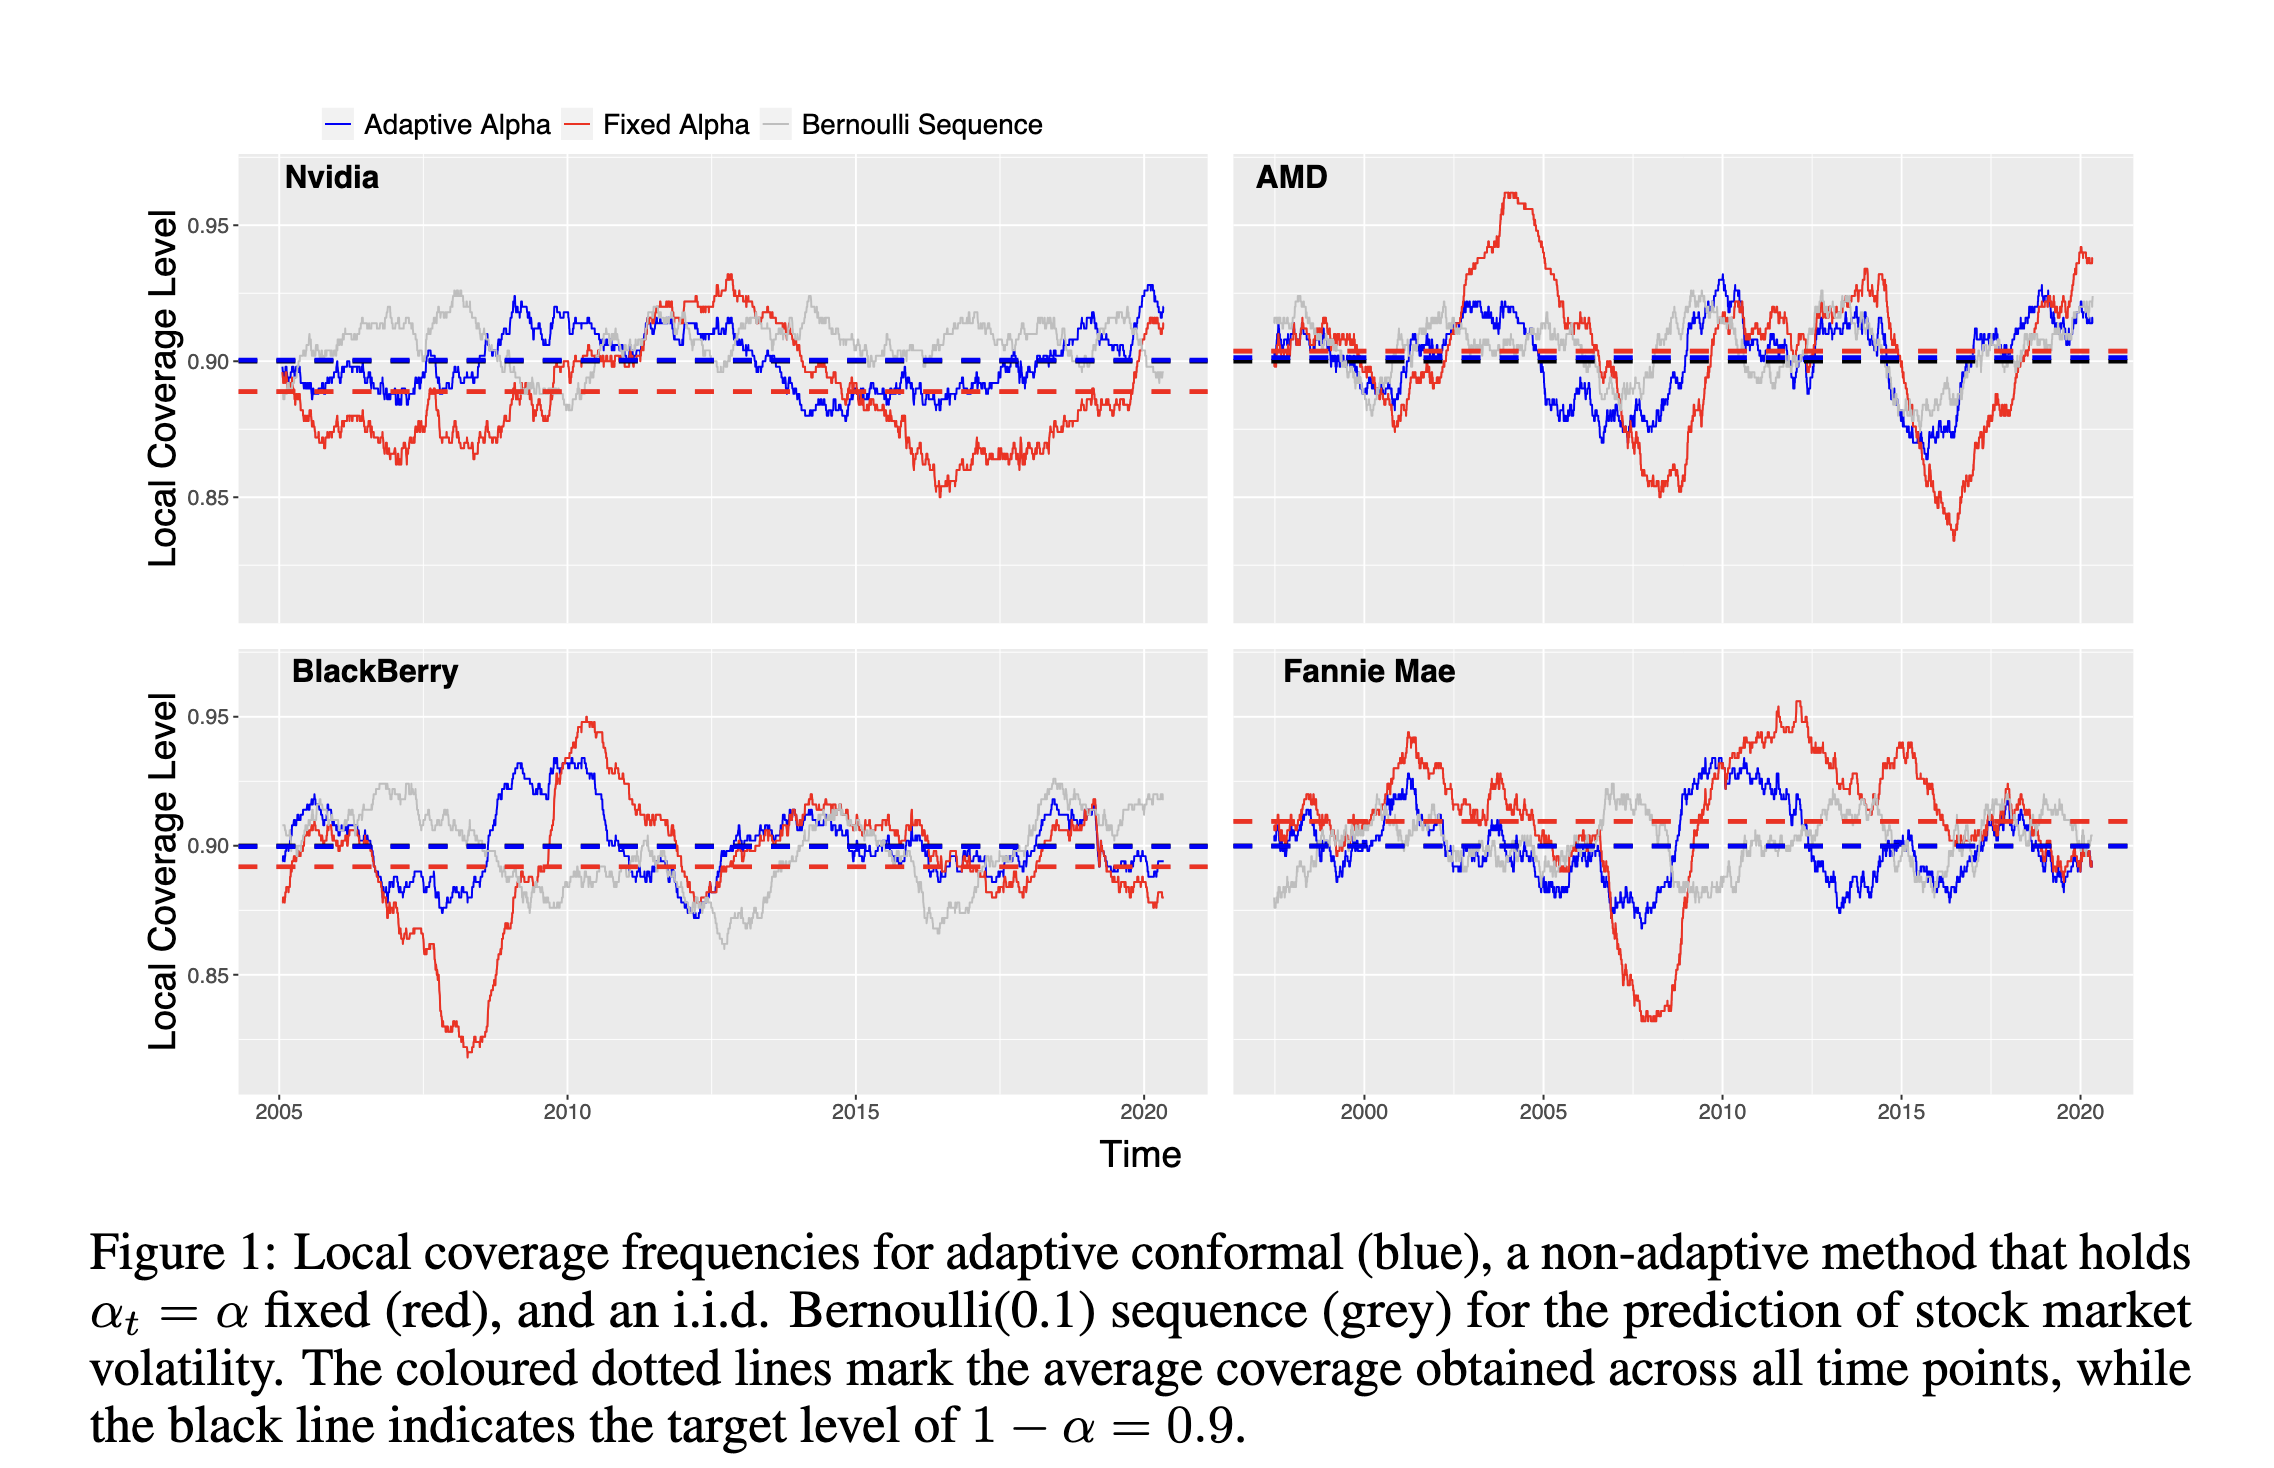
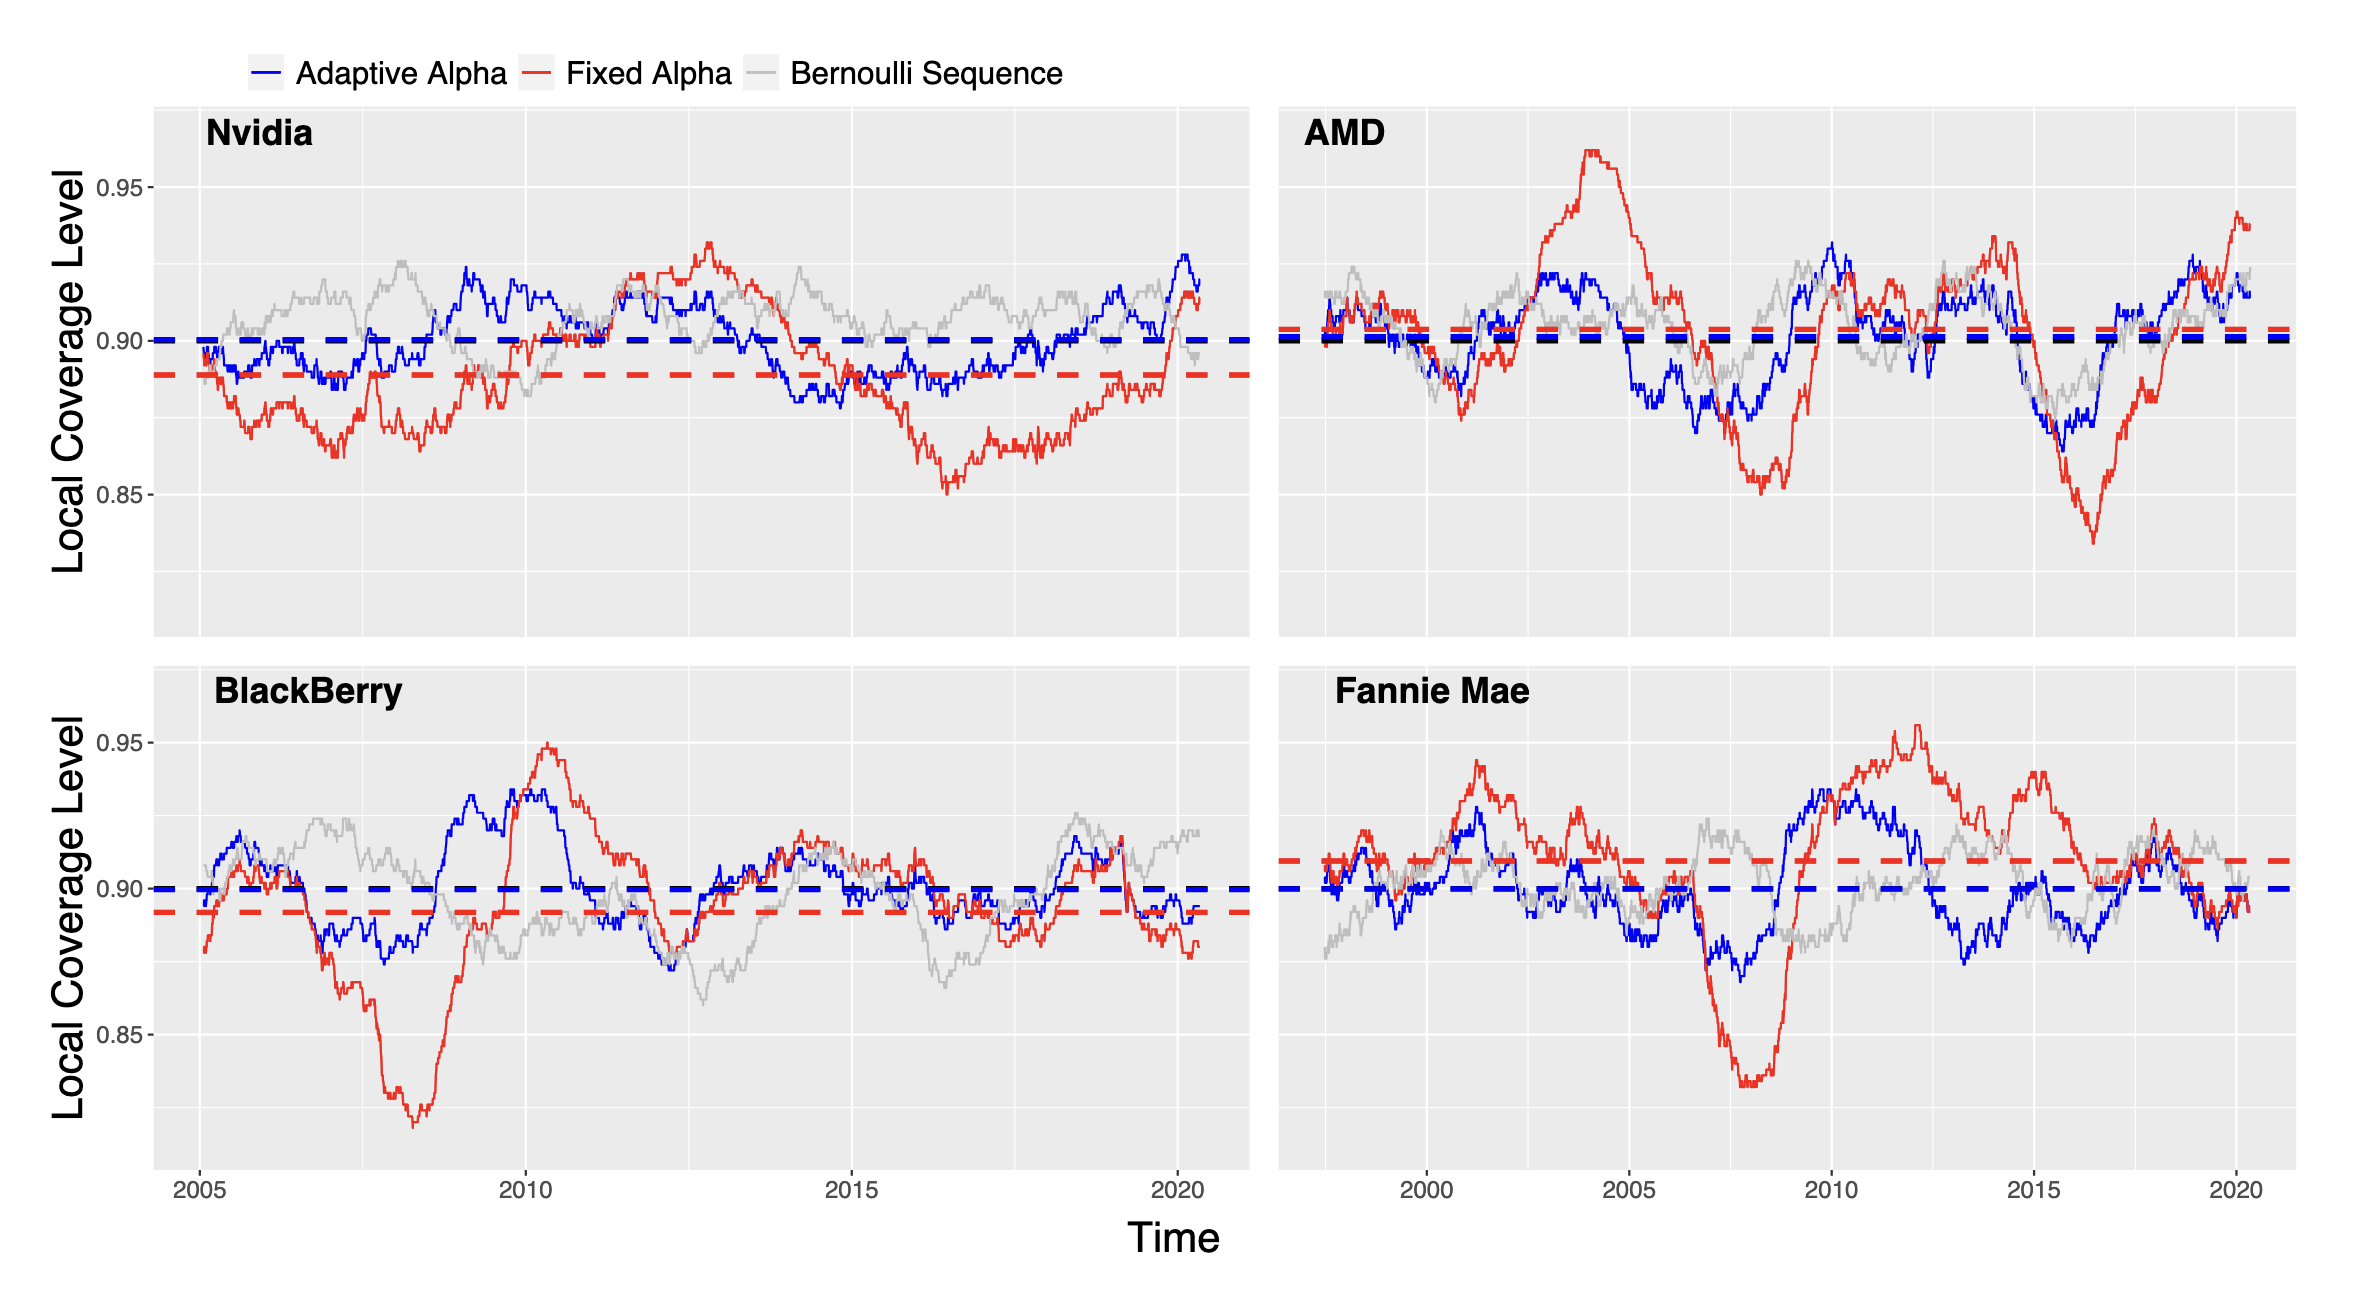
feat: added reproduced figures 1-2

diff --git a/examples/figure2/volatility.py b/examples/figure2/volatility.py
@@ -1,0 +1,84 @@
+"""
+GARCH-based adaptive conformal inference for volatility prediction.
+
+Example pipeline used to reproduce Figures 1 and 2 from Gibbs & Candès (2021).
+This module is intentionally outside core `aci` to keep the library model-agnostic.
+"""
+
+import warnings
+
+import numpy as np
+from arch import arch_model
+
+from aci import ACITracker
+
+
+def garch_conformal_forecasting(
+    returns: np.ndarray,
+    alpha: float,
+    gamma: float,
+    lookback: int = 1250,
+    garch_p: int = 1,
+    garch_q: int = 1,
+    start_up: int = 100,
+    verbose: bool = False,
+    update_method: str = "simple",
+    momentum_bw: float = 0.95,
+    score: str = "normalized",
+) -> tuple[np.ndarray, np.ndarray, np.ndarray]:
+    """Run ACI with GARCH(p,q) volatility model."""
+    if score not in ("normalized", "unnormalized"):
+        raise ValueError(f"score must be 'normalized' or 'unnormalized', got '{score}'")
+
+    T = len(returns)
+    start_up = max(start_up, lookback)
+    n_steps = T - start_up + 1
+
+    tracker = ACITracker(alpha, gamma, method=update_method, momentum_bw=momentum_bw)
+    scores = np.zeros(n_steps)
+    err_seq_aci = np.zeros(n_steps)
+    err_seq_fixed = np.zeros(n_steps)
+
+    for t in range(start_up, T + 1):
+        if verbose:
+            print(t)
+
+        idx = t - start_up
+        window = returns[t - lookback: t - 1]
+
+        am = arch_model(
+            window, mean="Zero", vol="GARCH", p=garch_p, q=garch_q,
+            dist="normal", rescale=False
+        )
+        with warnings.catch_warnings():
+            warnings.filterwarnings("ignore", category=Warning)
+            res = am.fit(disp="off")
+
+        forecast = res.forecast(horizon=1)
+        sigma2_hat = forecast.variance.values[-1, 0]
+        v_t = returns[t - 1] ** 2
+
+        if score == "normalized":
+            scores[idx] = abs(v_t - sigma2_hat) / sigma2_hat
+        else:
+            scores[idx] = abs(v_t - sigma2_hat)
+
+        if idx > 0:
+            recent_start = max(idx - lookback + 1, 0)
+            recent_scores = scores[recent_start: idx]
+            alphat = tracker.alpha_t
+            if alphat >= 1:
+                err_seq_aci[idx] = 1.0
+            elif alphat <= 0:
+                err_seq_aci[idx] = 0.0
+            else:
+                err_seq_aci[idx] = float(scores[idx] > np.quantile(recent_scores, 1 - alphat))
+            err_seq_fixed[idx] = float(scores[idx] > np.quantile(recent_scores, 1 - alpha))
+
+        tracker.update(err_seq_aci[idx])
+
+        if t % 100 == 0:
+            print(f"Done {t} steps")
+
+    alpha_sequence = tracker.alpha_history
+    return alpha_sequence, err_seq_aci, err_seq_fixed

diff --git a/examples/figure2/utils.py b/examples/figure2/utils.py
@@ -1,0 +1,28 @@
+"""Utility functions for ACI examples."""
+
+import numpy as np
+
+
+def local_coverage(err_seq: np.ndarray, window: int = 500) -> np.ndarray:
+    """Compute local coverage frequency using a centered rolling window."""
+    kernel = np.ones(window) / window
+    rolling_err = np.convolve(err_seq, kernel, mode="valid")
+    return 1.0 - rolling_err
+
+
+def fetch_stock_data(ticker: str, start: str, end: str) -> dict:
+    """Download stock data and compute returns and realized volatility."""
+    import yfinance as yf
+
+    data = yf.download(ticker, start=start, end=end, auto_adjust=True, progress=False)
+    prices = data["Open"].values.flatten()
+    dates = data.index
+    returns = np.diff(prices) / prices[:-1]
+    volatility = returns ** 2
+
+    return {
+        "prices": prices,
+        "returns": returns,
+        "volatility": volatility,
+        "dates": dates[1:],
+    }

diff --git a/README.md b/README.md
@@ -41,19 +41,39 @@ for t in range(T):
 | `aci.tracker.ACITracker` | Core alpha update (Simple and Momentum rules) |
 
 Non-essential forecasting/data pipelines are intentionally kept in `examples/`:
-- `examples/volatility.py` (GARCH volatility example)
+- `examples/figure1/` (self-contained Figure 1 example files)
+- `examples/figure2/` (self-contained Figure 2 example files)
 - `examples/quantile_reg.py` (CQR regression example)
-- `examples/utils.py` (example-only data and plotting utilities)
 
 ## Reproducing Paper Figures
 
 ```bash
 # Figure 1: Volatility prediction with normalized score (4 stocks)
-python examples/reproduce_figure1.py
+python examples/figure1/reproduce.py
 
 # Figure 2: Volatility prediction with unnormalized score (4 stocks)
-python examples/reproduce_figure2.py
+python examples/figure2/reproduce.py
 ```
+
+## Figure Comparisons
+
+### Figure 1 (Normalized Score)
+
+| Our reproduction | Paper figure |
+|---|---|
+| <img src="figures/figure1.png" alt="Our Figure 1" width="520"> | <img src="figures/figure_1_original.png" alt="Paper Figure 1" width="640"> |
+
+- Our Figure 1 follows the same overall panel behavior but is more sensitive to data/modeling differences.
+- Largest visible gaps are in local oscillations and average-coverage line levels for some tickers.
+
+### Figure 2 (Unnormalized Score)
+
+| Our reproduction | Paper figure |
+|---|---|
+| <img src="figures/figure2.png" alt="Our Figure 2" width="520"> | <img src="figures/figure_2_original.png" alt="Paper Figure 2" width="640"> |
+
+- Our Figure 2 is visually much closer to the paper than Figure 1.
+- Remaining differences are mostly in exact timing/depth of dips and slight baseline shifts.
 
 ## Citation
 
